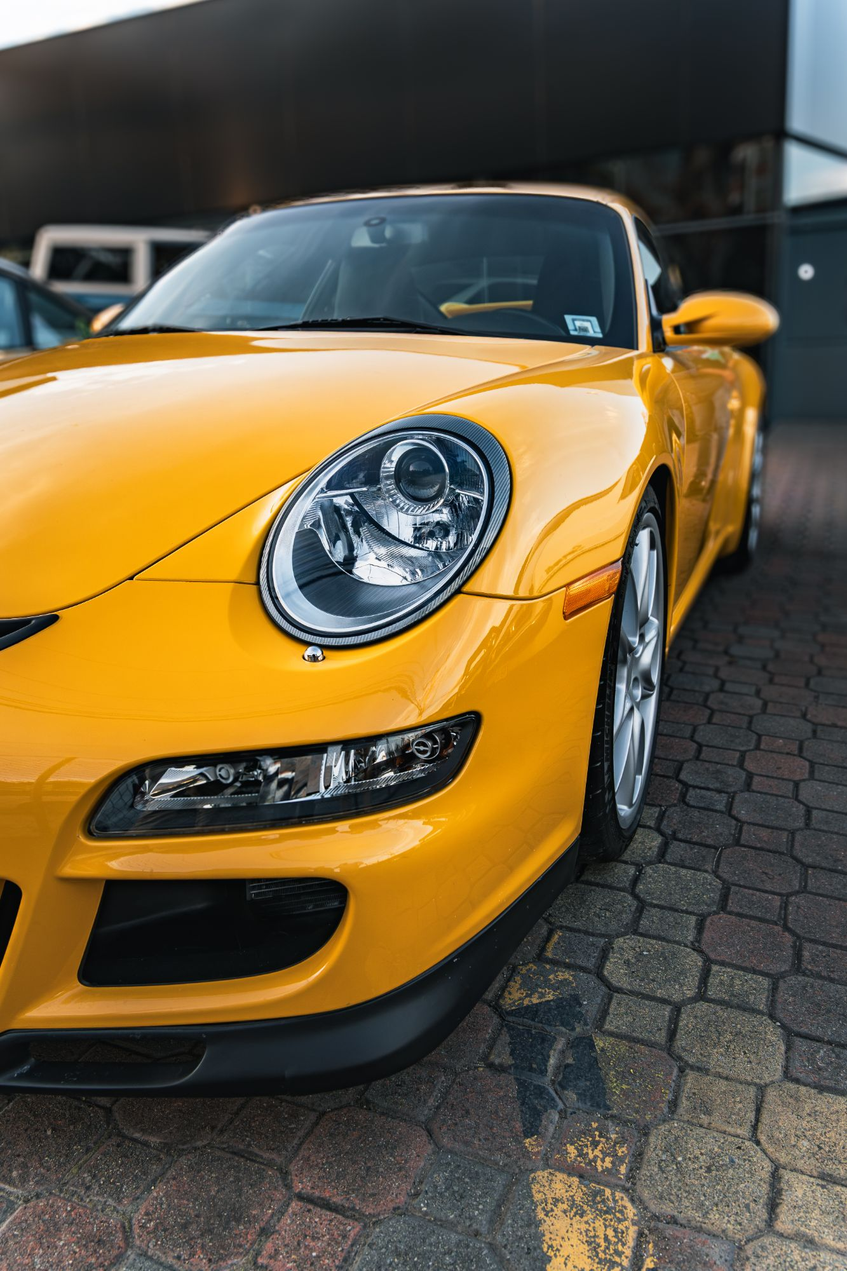
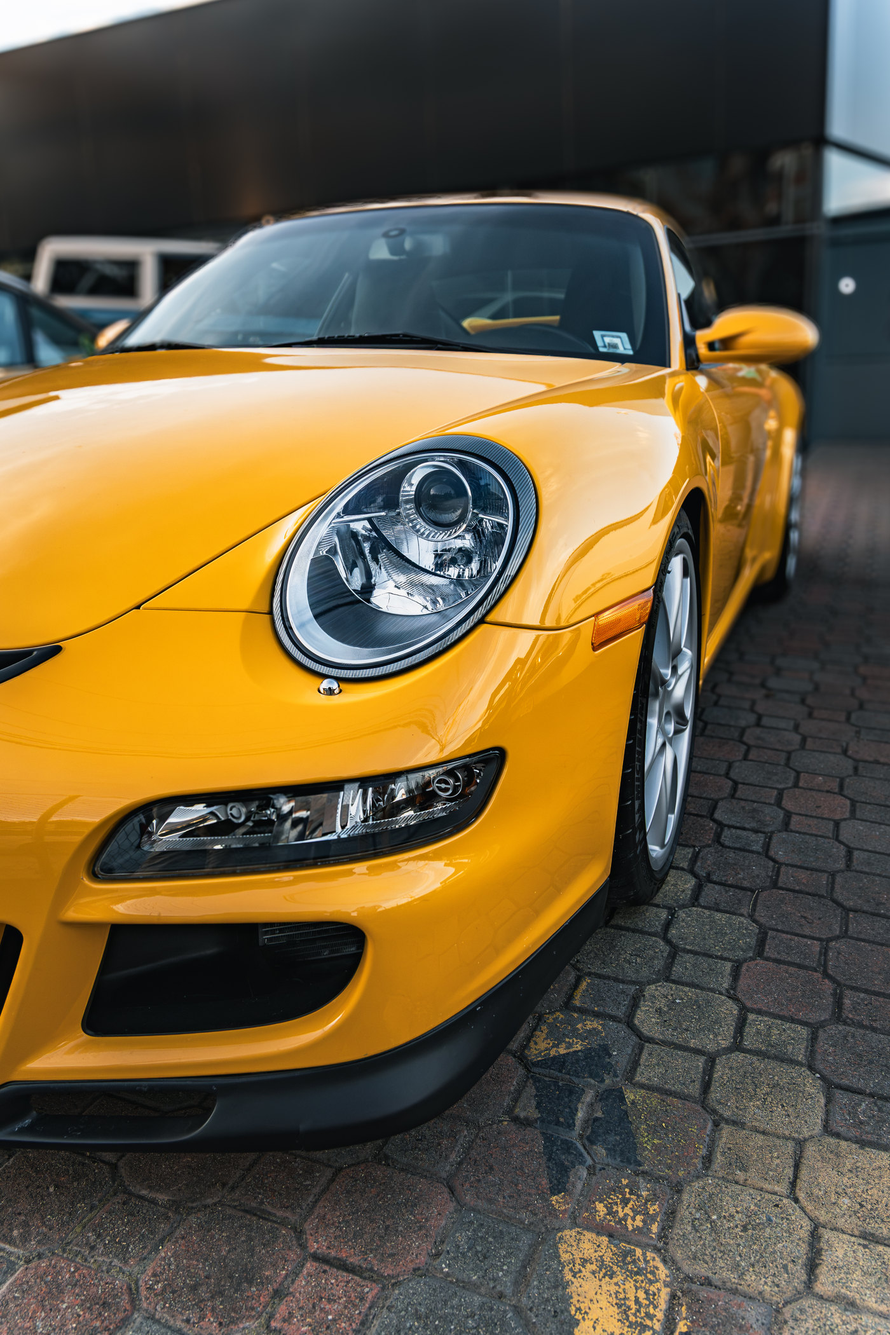
Fotos de alta resolución desde los originales para la portada de Cómo funciona y la imagen de inicio

diff --git a/como-funciona.html b/como-funciona.html
@@ -49,7 +49,7 @@
 </div>
 
 <section class="hero hero--compact hero--split hero--photo-top">
-  <div class="hero-media" style="background-image: url('images/porsche-gt3-trasera-hd.jpg'); background-position: center 45%; --hero-y: 44%;"></div>
+  <div class="hero-media" style="background-image: url('images/porsche-gt3-trasera-hd.jpg?v=2'); background-position: center 45%; --hero-y: 44%;"></div>
   <div class="hero-inner container">
     <p class="hero-eyebrow">ACELERA Growth System</p>
     <h1 class="h2">El sistema completo:<br>un ciclo de 6 etapas.</h1>

diff --git a/index.html b/index.html
@@ -89,7 +89,7 @@
         <a href="como-funciona.html" class="link-arrow mt-32">Ver cómo funciona el ciclo</a>
       </div>
       <div class="intro-media">
-        <img src="images/porsche-gt3-faro.jpg" alt="Faro y paragolpes delantero de un Porsche amarillo en primer plano" loading="lazy">
+        <img src="images/porsche-gt3-faro.jpg?v=2" alt="Faro y paragolpes delantero de un Porsche amarillo en primer plano" loading="lazy">
       </div>
     </div>
 
